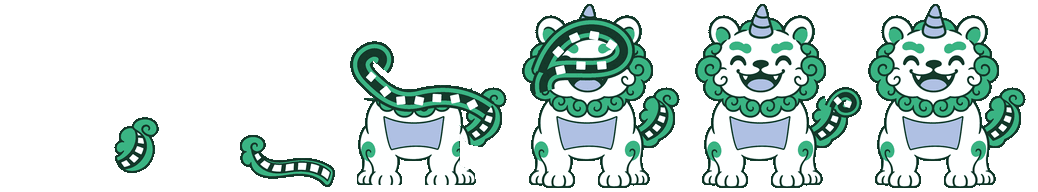
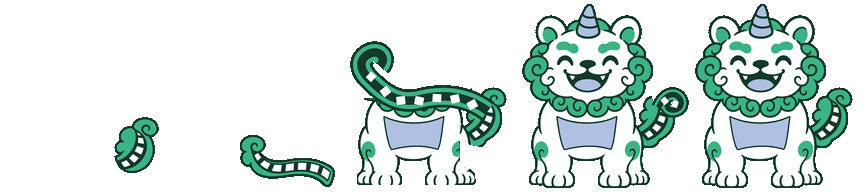
Drop the draped-face frame from the header unfurl
The fourth smiling frame had the film strip lying across the eyes,
which read as a blindfold rather than an unwrapping. The header now
plays five frames: coil, strip, hindquarters, nearly there, and the
finished pose.

diff --git a/web/style.css b/web/style.css
@@ -305,7 +305,7 @@ a:hover { text-decoration-color: var(--ink); }
   outline-offset: 4px;
   border-radius: 2px;
 }
-/* The mascot stands beside the wordmark: six frames on a sheet 600% wide,
+/* The mascot stands beside the wordmark: five frames on a sheet 500% wide,
    the last of which is the finished character, unfurled from its tail on
    load. Its outlines are the ink, which vanishes into the dark sheet, so
    the evening edition gives it a hairline of light behind the edges. */
@@ -315,7 +315,7 @@ a:hover { text-decoration-color: var(--ink); }
   height: 64px;
   flex: none;
   margin: -14px 0 -10px;
-  background: url(mascot-hello.png) 100% 0 / 600% 100% no-repeat;
+  background: url(mascot-hello.png) 100% 0 / 500% 100% no-repeat;
   transform-origin: 50% 100%;
 }
 :root[data-theme="dark"] .mark { filter: drop-shadow(0 0 1px #ffffffb0); }
@@ -1409,7 +1409,9 @@ table.changes td.was { color: var(--muted-flat); text-decoration: line-through; 
     from { transform: translate(10px, 10px); }
     to   { transform: none; }
   }
-  .masthead h1 .mark { animation: unfurl 1.2s steps(6, jump-none) both; }
+  /* Five frames here, not six: the drawing with the film draped over the
+     eyes was dropped. */
+  .masthead h1 .mark { animation: unfurl 1.2s steps(5, jump-none) both; }
 
   /* The empty state: the six frames of the unfurl, 200 ms apiece, and it
      stays on the last one. jump-none lands exactly on each frame, first and
